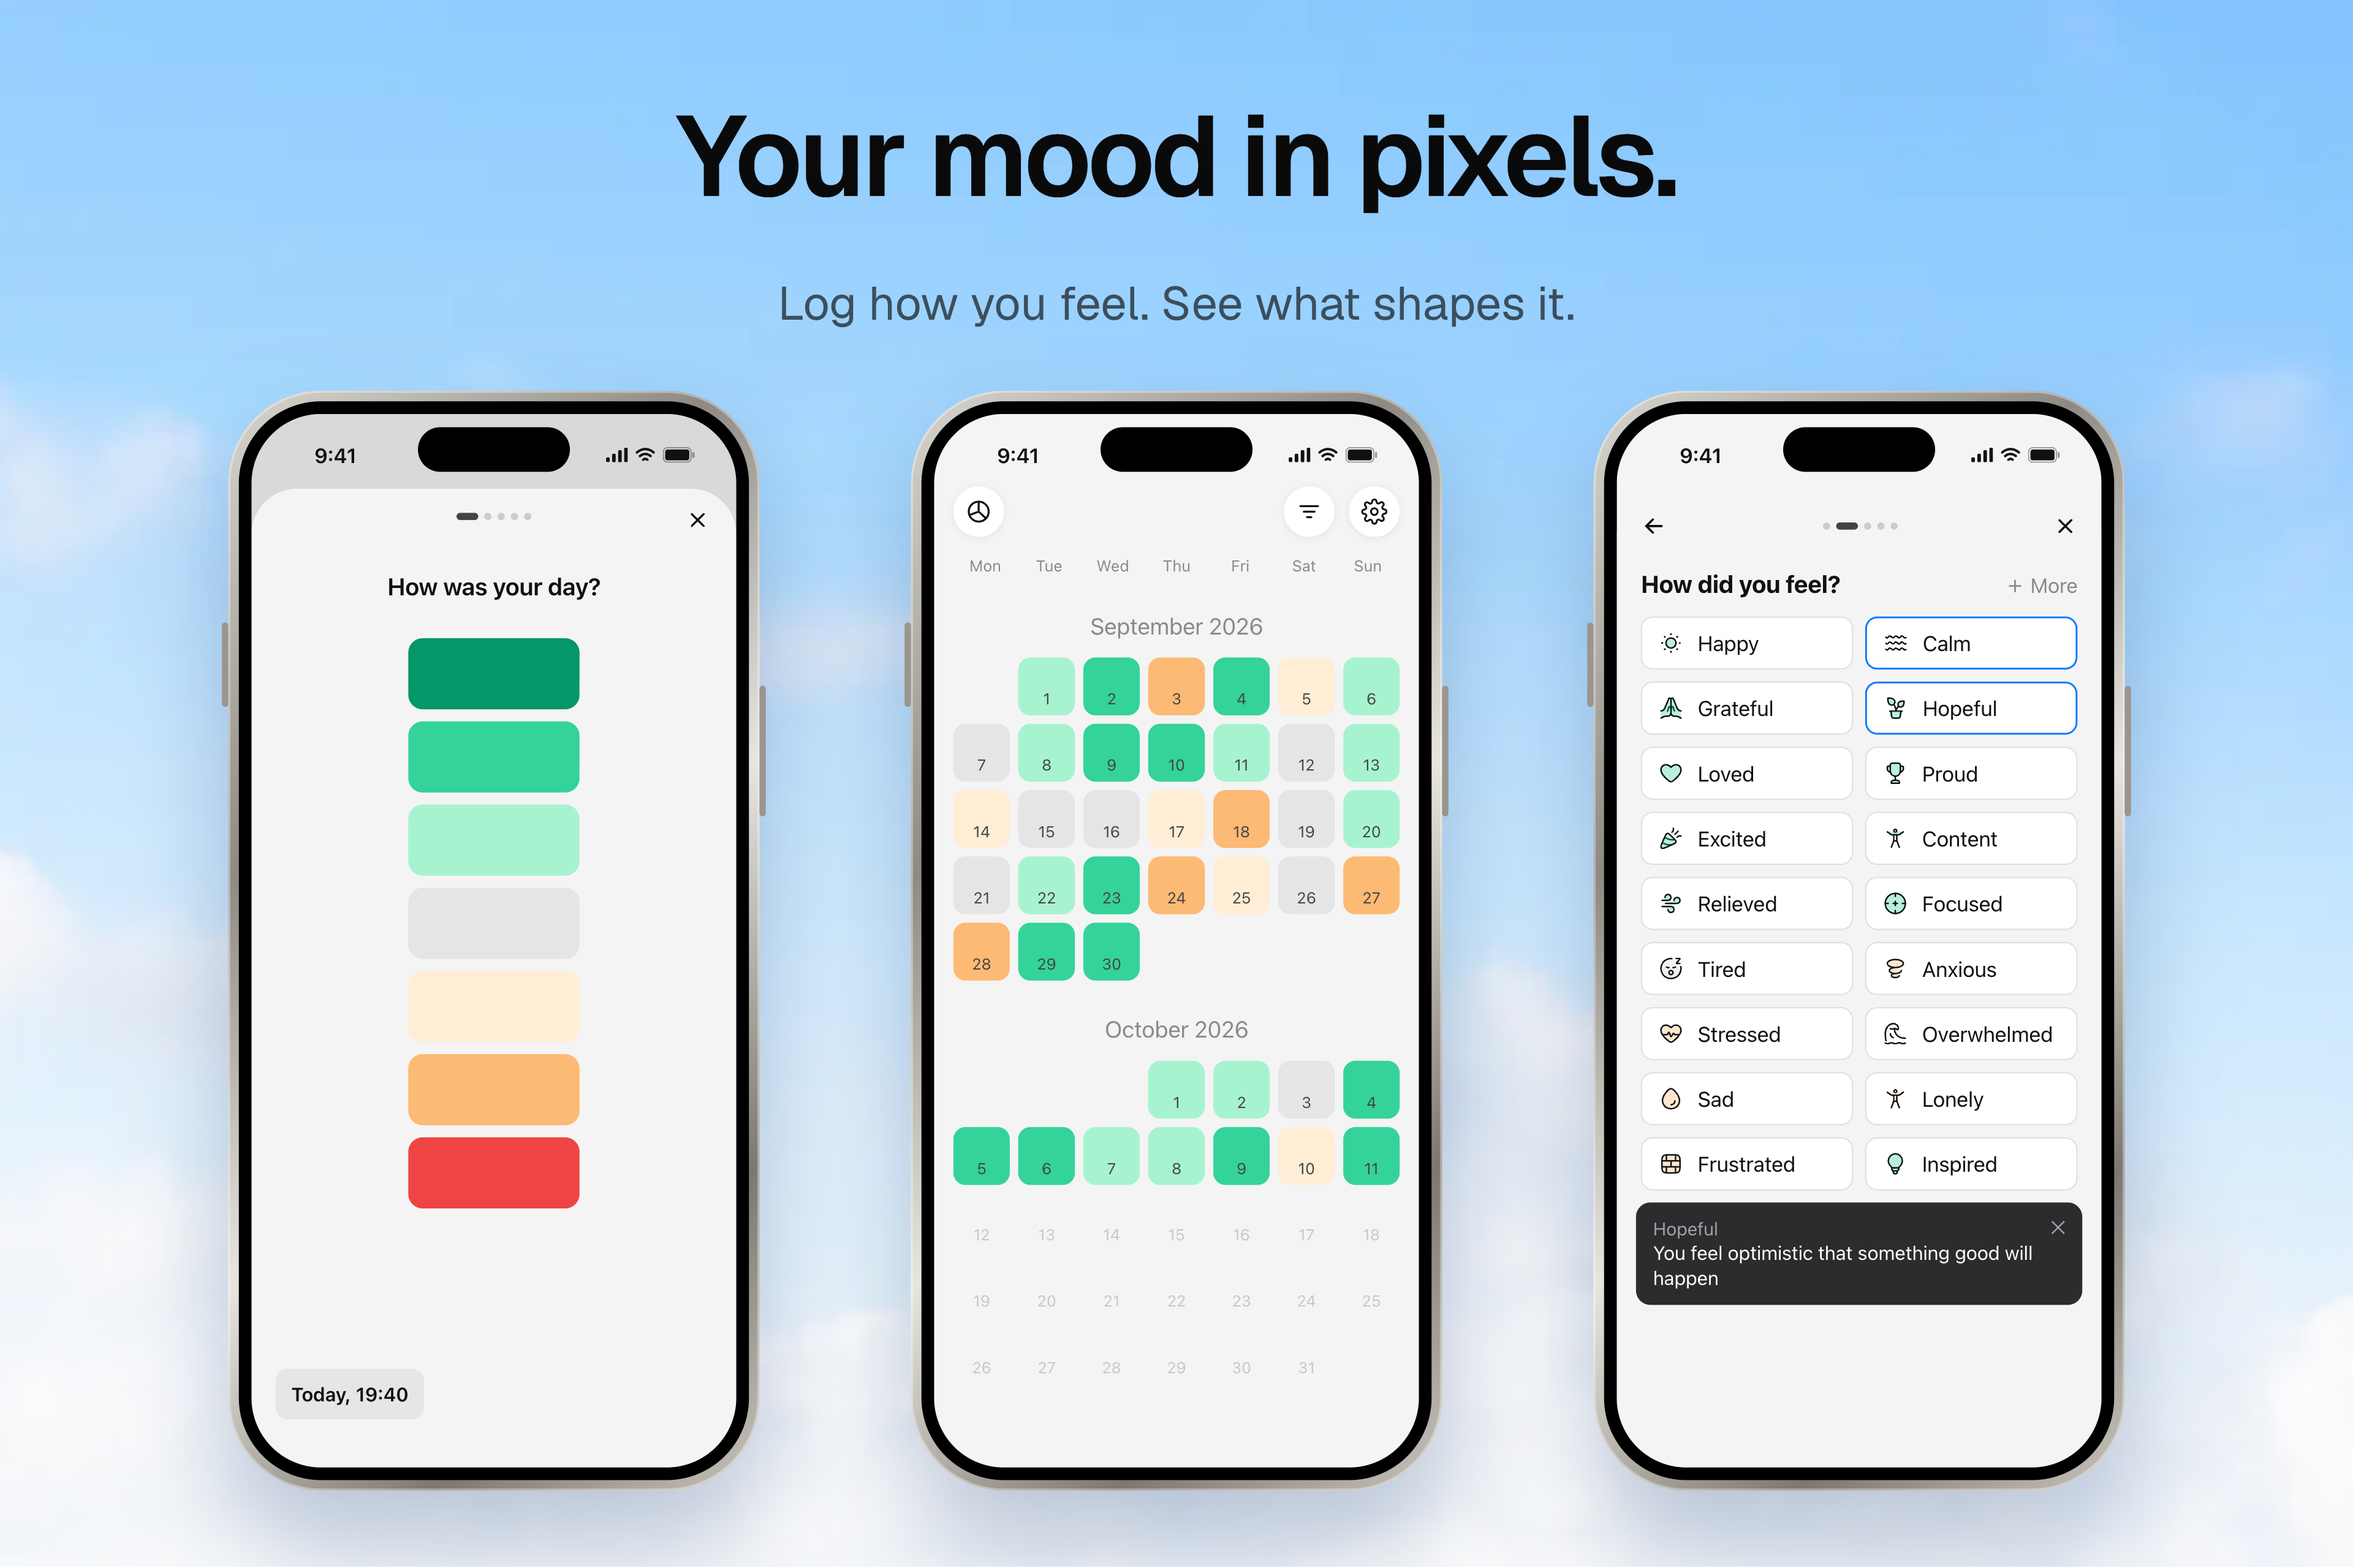
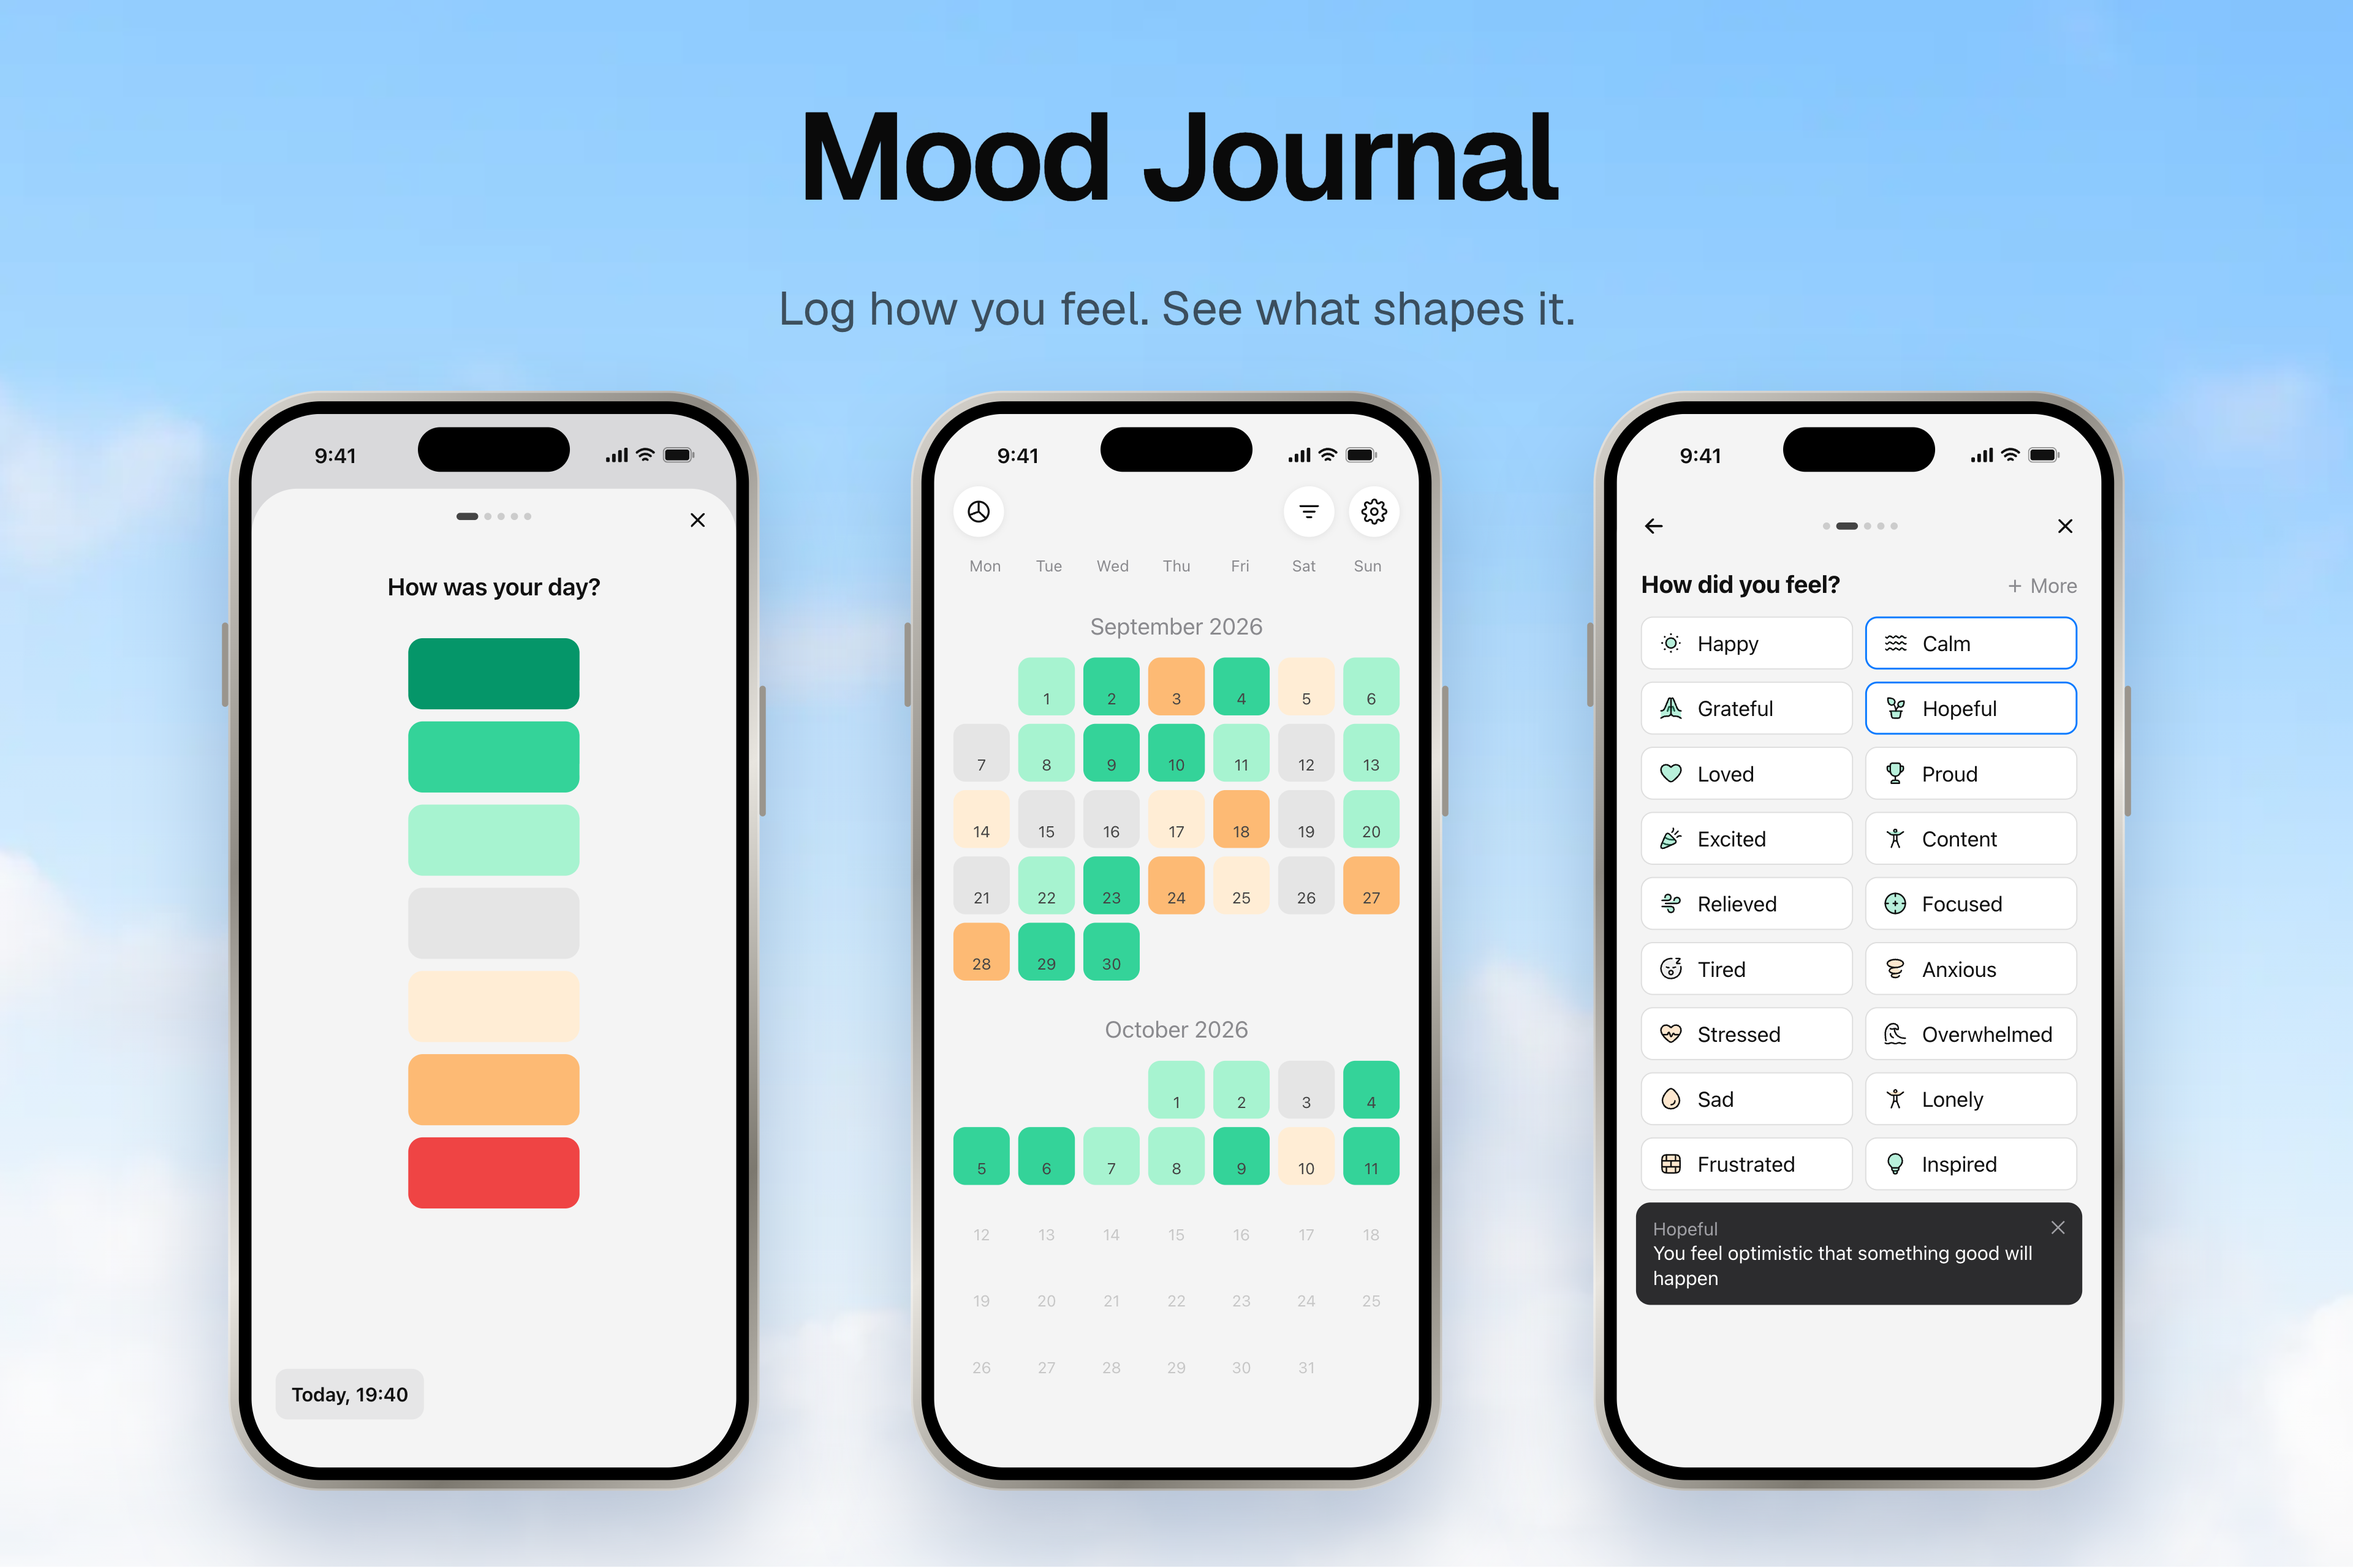
docs(store-screenshots): frame search asset as Mood Journal, add Play feature graphic

Changed region(s): [[0.2812, 0.0625, 0.7188, 0.125], [0.3438, 0.1875, 0.6562, 0.2188]]

diff --git a/docs/store-screenshots/index.html b/docs/store-screenshots/index.html
@@ -148,6 +148,9 @@ radial-gradient(1.4px 1.4px at 18% 10%,#fff,transparent),radial-gradient(1px 1px
 .cv .phA{transform-origin:50% 0}
 .cv h4{position:absolute;left:0;right:0;margin:0;text-align:center;font-weight:600;letter-spacing:-.03em;line-height:1.05}
 .cv .sub{position:absolute;left:0;right:0;text-align:center;color:rgba(10,10,10,.66);font-size:19px}
+.cv.feature{width:1024px;height:500px;background:url(photos/sky.webp) 50% 35%/cover no-repeat,#bcdcff}
+.cv .fk{position:absolute;left:64px;top:132px;font-size:16px;font-weight:700;letter-spacing:.09em;text-transform:uppercase;color:rgba(10,10,10,.66)}
+.cv h4.fh{left:64px;right:auto;top:164px;width:430px;text-align:left;font-size:50px;line-height:1.04}
 .px{position:absolute;border-radius:22%;box-shadow:0 10px 24px rgba(20,60,120,.18)}
 </style></head><body><main>
 <h1>Pixy store screenshots</h1>
@@ -211,14 +214,21 @@ radial-gradient(1.4px 1.4px at 18% 10%,#fff,transparent),radial-gradient(1px 1px
   <div class="phA" style="top:52px;transform:translateX(-50%) scale(.8);z-index:2;"><div class="bz"><div class="sc" data-app="calendar" data-args=''></div></div></div>
  </div><div class="lab"><b>Product page header</b> 21:9, 3840x1646. No text: app icon, name and Get button sit right below. Calendar in front, mood logger and year in pixels behind, phones run off the bottom edge.</div></div>
  <div><div class="cv search" data-cv="search">
-  <h4 style="top:40px;font-size:46px">Your mood in pixels.</h4>
-  <div class="sub" style="top:102px">Log how you feel. See what shapes it.</div>
+  <h4 style="top:38px;font-size:50px">Mood Journal</h4>
+  <div class="sub" style="top:104px">Log how you feel. See what shapes it.</div>
   <div class="phA" style="top:160px;left:21%;transform:translateX(-50%) scale(.86);"><div class="bz"><div class="sc" data-app="mood" data-args=''></div></div></div>
   <div class="phA" style="top:160px;transform:translateX(-50%) scale(.86);"><div class="bz"><div class="sc" data-app="calendar" data-args=''></div></div></div>
   <div class="phA" style="top:160px;left:79%;transform:translateX(-50%) scale(.86);"><div class="bz"><div class="sc" data-app="emotions" data-args=''></div></div></div>
- </div><div class="lab"><b>Search results</b> 3:2, 3840x2560. Replaces the first 3 screenshots in search. One line + real app: mood logger, calendar, emotions.</div></div>
+ </div><div class="lab"><b>Search results</b> 3:2, 3840x2560. Replaces the first 3 screenshots in search. "Mood Journal" + one line + real app: mood logger, calendar, emotions.</div></div>
+ <div><div class="cv feature android-set" data-cv="feature">
+  <i class="px" style="left:40px;top:40px;width:26px;height:26px;background:#34d399;opacity:0.85;transform:rotate(-8deg)"></i><i class="px" style="left:470px;top:60px;width:18px;height:18px;background:#a7f3d0;opacity:0.8;transform:rotate(6deg)"></i><i class="px" style="left:60px;top:420px;width:22px;height:22px;background:#fdba74;opacity:0.8;transform:rotate(10deg)"></i><i class="px" style="left:420px;top:400px;width:16px;height:16px;background:#059669;opacity:0.75;transform:rotate(-4deg)"></i>
+  <div class="fk">Mood Journal</div>
+  <h4 class="fh">Understand what makes you feel that way.</h4>
+  <div class="phA" style="top:70px;left:auto;right:170px;transform:rotate(-6deg) scale(.86);z-index:2;"><div class="bz"><div class="sc" data-app="calendar" data-args=''></div></div></div>
+  <div class="phA" style="top:120px;left:auto;right:-40px;transform:rotate(6deg) scale(.8);z-index:1;"><div class="bz"><div class="sc" data-app="year" data-args=''></div></div></div>
+ </div><div class="lab"><b>Google Play feature graphic</b> 1024x500 (rendered 2x, downsampled). Mood Journal kicker + proof headline left, calendar and year in pixels right.</div></div>
 </div></main>
-<script src="https://unpkg.com/lucide@0.460.0/dist/umd/lucide.min.js"></script><script src="emotion-icons.js?v=1792502780"></script><script src="appscreens.js?v=1792502780"></script><script>
+<script src="https://unpkg.com/lucide@0.460.0/dist/umd/lucide.min.js"></script><script src="emotion-icons.js?v=1792505053"></script><script src="appscreens.js?v=1792505053"></script><script>
 document.head.insertAdjacentHTML('beforeend','<style>'+APP.css+'</style>');
 document.querySelectorAll('[data-app]').forEach(el=>{window.PIXY_OS=el.closest('.android-set')?'android':'ios';const a=(el.dataset.args||'').split(',').filter(Boolean);el.innerHTML=APP.render(el.dataset.app,a[0]||undefined,a[1]==='dark')});window.PIXY_OS='ios';
 document.querySelectorAll('[data-card]').forEach(el=>el.innerHTML='<div class="ps">'+APP.card(el.dataset.card)+'</div>');

diff --git a/docs/store-screenshots/build.py b/docs/store-screenshots/build.py
@@ -276,6 +276,9 @@ CREATIVE_CSS = r"""
 .cv .phA{transform-origin:50% 0}
 .cv h4{position:absolute;left:0;right:0;margin:0;text-align:center;font-weight:600;letter-spacing:-.03em;line-height:1.05}
 .cv .sub{position:absolute;left:0;right:0;text-align:center;color:rgba(10,10,10,.66);font-size:19px}
+.cv.feature{width:1024px;height:500px;background:url(photos/sky.webp) 50% 35%/cover no-repeat,#bcdcff}
+.cv .fk{position:absolute;left:64px;top:132px;font-size:16px;font-weight:700;letter-spacing:.09em;text-transform:uppercase;color:rgba(10,10,10,.66)}
+.cv h4.fh{left:64px;right:auto;top:164px;width:430px;text-align:left;font-size:50px;line-height:1.04}
 .px{position:absolute;border-radius:22%;box-shadow:0 10px 24px rgba(20,60,120,.18)}
 """
 def pixels(cells):
@@ -284,6 +287,7 @@ def pixels(cells):
 # Mood colors from appscreens.js default scale, floating like the year grid drifting through the clouds.
 PX = [(70, 70, 34, "#34d399", .9, -8), (150, 210, 22, "#a7f3d0", .85, 6), (40, 270, 26, "#fdba74", .8, 10), (230, 110, 18, "#059669", .7, -4),
       (860, 60, 30, "#059669", .9, 8), (790, 200, 24, "#ffedd5", .85, -6), (890, 280, 20, "#34d399", .8, 4), (720, 90, 16, "#a7f3d0", .7, -10)]
+FPX = [(40, 40, 26, "#34d399", .85, -8), (470, 60, 18, "#a7f3d0", .8, 6), (60, 420, 22, "#fdba74", .8, 10), (420, 400, 16, "#059669", .75, -4)]
 CREATIVE = f"""
 <div class="cvset">
  <div><div class="cv header" data-cv="header">
@@ -293,12 +297,19 @@ CREATIVE = f"""
   {phone('calendar', 52, 'transform:translateX(-50%) scale(.8);z-index:2;')}
  </div><div class="lab"><b>Product page header</b> 21:9, 3840x1646. No text: app icon, name and Get button sit right below. Calendar in front, mood logger and year in pixels behind, phones run off the bottom edge.</div></div>
  <div><div class="cv search" data-cv="search">
-  <h4 style="top:40px;font-size:46px">Your mood in pixels.</h4>
-  <div class="sub" style="top:102px">Log how you feel. See what shapes it.</div>
+  <h4 style="top:38px;font-size:50px">Mood Journal</h4>
+  <div class="sub" style="top:104px">Log how you feel. See what shapes it.</div>
   {phone('mood', 160, 'left:21%;transform:translateX(-50%) scale(.86);')}
   {phone('calendar', 160, 'transform:translateX(-50%) scale(.86);')}
   {phone('emotions', 160, 'left:79%;transform:translateX(-50%) scale(.86);')}
- </div><div class="lab"><b>Search results</b> 3:2, 3840x2560. Replaces the first 3 screenshots in search. One line + real app: mood logger, calendar, emotions.</div></div>
+ </div><div class="lab"><b>Search results</b> 3:2, 3840x2560. Replaces the first 3 screenshots in search. "Mood Journal" + one line + real app: mood logger, calendar, emotions.</div></div>
+ <div><div class="cv feature android-set" data-cv="feature">
+  {pixels(FPX)}
+  <div class="fk">Mood Journal</div>
+  <h4 class="fh">Understand what makes you feel that way.</h4>
+  {phone('calendar', 70, 'left:auto;right:170px;transform:rotate(-6deg) scale(.86);z-index:2;')}
+  {phone('year', 120, 'left:auto;right:-40px;transform:rotate(6deg) scale(.8);z-index:1;')}
+ </div><div class="lab"><b>Google Play feature graphic</b> 1024x500 (rendered 2x, downsampled). Mood Journal kicker + proof headline left, calendar and year in pixels right.</div></div>
 </div>"""
 body = body.replace('Google Play User', 'Pixy user')
 
